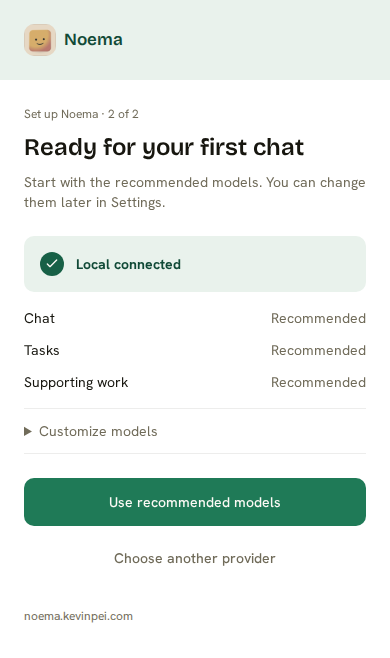
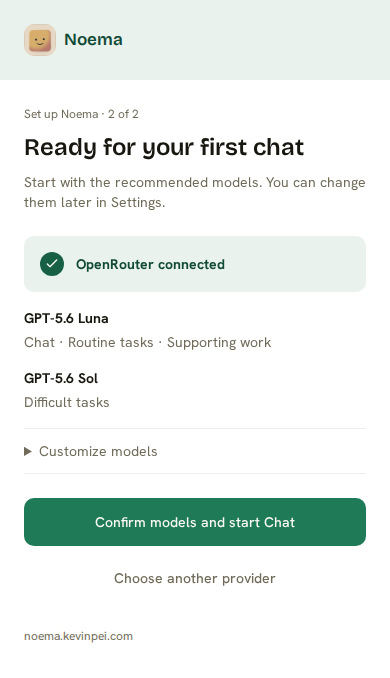
docs: show model names and jobs in setup review

diff --git a/docs/plans/2026-09-04-supporting-ui/mocks.js b/docs/plans/2026-09-04-supporting-ui/mocks.js
@@ -124,7 +124,7 @@
     {
       id: 'provider-models', group: 'Model setup', label: 'Review models', title: 'Ready for your first chat', step: 'Set up Noema · 2 of 2',
       intro: 'Start with the recommended models. You can change them later in Settings.', body: '',
-      intent: 'Show a short summary first. Keep all nine model assignments available under disclosure.',
+      intent: 'Name each selected model once and show its jobs. Keep all nine assignments under customization; update the summary when choices change.',
       constraint: 'Selections remain drafts until explicit confirmation saves the complete setup. Local action reviews remain human approval.'
     },
     {
@@ -270,12 +270,24 @@
   let moveFocus = false;
   const groups = [...new Set(screens.map(screen => screen.group))];
   groups.forEach(group => flowSelect.add(new Option(group, group)));
+  const assignmentLabels = ['Chat', 'Simple tasks', 'Medium tasks', 'Difficult tasks', 'Task reviewer', 'Web summaries', 'Progress checks', 'Action reviews', 'Memory updates'];
+  function modelSummary(values) {
+    const jobGroups = [[[0], 'Chat'], [[1, 2, 4], 'Routine tasks'], [[3], 'Difficult tasks'], [[5, 6, 7, 8], 'Supporting work']];
+    return [...new Set(values)].map(model => {
+      const jobs = jobGroups.flatMap(([indices, label]) => indices.every(index => values[index] === model)
+        ? [label] : indices.filter(index => values[index] === model).map(index => assignmentLabels[index]));
+      return `<section class="model-summary-row"><strong>${model}</strong><p>${jobs.join(' · ')}</p></section>`;
+    }).join('');
+  }
   function modelBody() {
-    const labels = ['Chat', 'Simple tasks', 'Medium tasks', 'Difficult tasks', 'Task reviewer', 'Web summaries', 'Progress checks', 'Action reviews', 'Memory updates'];
-    const assignments = labels.map((label, index) => provider === 'Local' && label === 'Action reviews'
+    // Example choices from the source baseline, not a live provider catalog.
+    const choices = provider === 'Local' ? ['Gemma 4 E4B IT'] : ['GPT-5.6 Luna', 'GPT-5.6 Sol', 'GPT-5.6 Terra'];
+    const values = assignmentLabels.map((_, index) => provider === 'Local' ? index === 7 ? 'Ask me for approval' : choices[0]
+      : index === 3 ? choices[1] : provider === 'Codex' && index === 0 ? choices[2] : choices[0]);
+    const assignments = assignmentLabels.map((label, index) => provider === 'Local' && index === 7
       ? `<section class="assignment"><strong>Action reviews</strong><p>Ask me for approval</p></section>`
-      : `<label class="assignment" for="model-${index}">${label}<select id="model-${index}"><option>Noema recommended</option><option>Example model selection</option></select></label>`).join('');
-    return status(`${provider} connected`, '', 'success') + facts([['Chat', 'Recommended'], ['Tasks', 'Recommended'], ['Supporting work', 'Recommended']]) + `<details><summary>Customize models</summary>${assignments}</details>` + actions(go('Use recommended models', 'provider-complete'), go('Choose another provider', 'provider-choice', 'secondary'));
+      : `<label class="assignment" for="model-${index}">${label}<select id="model-${index}">${choices.map(model => `<option${model === values[index] ? ' selected' : ''}>${model}</option>`).join('')}</select></label>`).join('');
+    return status(`${provider} connected`, '', 'success') + `<section id="model-summary" class="model-summary" aria-label="Selected models">${modelSummary(values)}</section><details><summary>Customize models</summary>${assignments}</details>` + actions(go('Confirm models and start Chat', 'provider-complete'), go('Choose another provider', 'provider-choice', 'secondary'));
   }
   function render() {
     const id = location.hash.slice(1);
@@ -331,7 +343,8 @@
   });
   screenRoot.addEventListener('change', event => {
     if (event.target.matches('.assignment select')) {
-      screenRoot.querySelector('[data-go="provider-complete"]').textContent = 'Confirm models and start Chat';
+      const values = assignmentLabels.map((_, index) => document.getElementById(`model-${index}`)?.value || 'Ask me for approval');
+      document.getElementById('model-summary').innerHTML = modelSummary(values);
     }
   });
   window.addEventListener('hashchange', render);

diff --git a/docs/plans/2026-09-04-supporting-ui/mocks.css b/docs/plans/2026-09-04-supporting-ui/mocks.css
@@ -86,6 +86,9 @@ details code { font-family: var(--font-family-code); overflow-wrap: anywhere; }
 .facts { display: grid; gap: var(--spacing-3); }
 .fact { display: flex; flex-wrap: wrap; justify-content: space-between; gap: var(--spacing-2); }
 .fact span:last-child { color: var(--muted-foreground); }
+.model-summary { display: grid; gap: var(--spacing-4); }
+.model-summary-row { display: grid; gap: var(--spacing-1); }
+.model-summary-row p { color: var(--muted-foreground); text-wrap: pretty; }
 .assignment { display: grid; gap: var(--spacing-1-5); margin-top: var(--spacing-3); }
 .assignment select { background: var(--background); border: 1px solid var(--border-default); border-radius: var(--radius-element); padding: var(--spacing-2); min-height: 44px; width: 100%; }
 .progress { display: grid; gap: var(--spacing-2); }

diff --git a/docs/plans/2026-09-04-supporting-ui/README.md b/docs/plans/2026-09-04-supporting-ui/README.md
@@ -107,6 +107,9 @@ No credentials were submitted. No account, grant, or recovery code was changed.
 - Keep successful sign-in separate from successful tool discovery. A partial result is not fully connected.
 - Use exact attempt events and the existing foreground query. Do not add polling.
 - Keep API-key, local, browser OAuth, device-code, credential, and no-auth paths where currently supported.
+- Group model review by resolved model name and show its jobs. Update the summary from the current draft.
+- Resolve automatic recommendations through provider profiles; keep automatic selection mode unless the person changes it.
+- Never use repeated “Recommended” labels as the model summary.
 - Keep all model assignments and explicit confirmation. Local action reviews remain human approval where required.
 - Use host-selected model fit, transfer size, progress, and diagnostics. Do not promise unsupported resume or timing.
 - Keep authenticated PWA offline behavior and existing local error boundaries.
@@ -154,7 +157,8 @@ This plan requires no database migration or persistent schema change.
 The three font files, their licenses, and `assets/noema.png` copy the existing Noema assets without modification.
 The local-model example comes from `crates/noema-providers/resources/local-models/catalog.toml` at the source baseline.
 It shows Gemma 4 E4B IT, its 5.3 GB Q4_K_M build, Apache-2.0 license, and Metal runtime.
-This is catalog example data, not a claim about the live server’s selected model.
+The model review examples also use `crates/noema-providers/src/recommendations.rs` from the same baseline.
+These are source examples, not claims about the live server’s selected models or current provider availability.
 The gallery uses native HTML controls to remain independent of a build. It is not a new production component library.
 Use production components and current tokens when applying the plan. Do not copy snapshot CSS into the application.
 Only light appearance is specified. A new dark theme is outside this plan.

diff --git a/docs/plans/2026-09-04-supporting-ui/validation.md b/docs/plans/2026-09-04-supporting-ui/validation.md
@@ -18,8 +18,11 @@ Scope: the saved design gallery. These results do not certify the production flo
 - Browser Back restored the previous screen.
 - Native connection denial displayed the no-new-access result.
 - Model customization exposed all nine assignments.
-- Changing an assignment changed the confirmation label to match the custom selection.
+- Changing an assignment updated the grouped model summary. The confirmation action remained explicit.
 - The Local example kept action reviews as human approval.
+- Model review showed resolved example model names and their jobs, without repeated “Recommended” values.
+- OpenRouter, Codex, and Local model summaries passed nine focused layout checks across the three preview widths.
+- Each provider retained all nine assignments under customization. Changed model choices regrouped the summary immediately.
 - Provider rows showed distinct hover and pressed feedback. Keyboard focus showed a solid outline.
 - Enter on the Local row opened local setup. Each row remains one action.
 - The service reconnect and waiting examples rendered inside the Chat intervention context.
@@ -40,7 +43,9 @@ Scope: the saved design gallery. These results do not certify the production flo
 - [Native consent, desktop](screenshots/proposed-consent-desktop.png)
 - [Codex device sign-in, phone](screenshots/proposed-codex-phone.png)
 - [Local download, desktop](screenshots/proposed-download-desktop.png)
-- [Model review, phone](screenshots/proposed-models-phone.png)
+- [OpenRouter model review, phone](screenshots/proposed-models-phone.png)
+- [Codex model review, phone](screenshots/proposed-models-codex-phone.png)
+- [Local model review, phone](screenshots/proposed-models-local-phone.png)
 - [Partial connection result, phone](screenshots/proposed-partial-phone.png)
 - [Rejected recovery code, phone](screenshots/proposed-recovery-phone.png)
 
